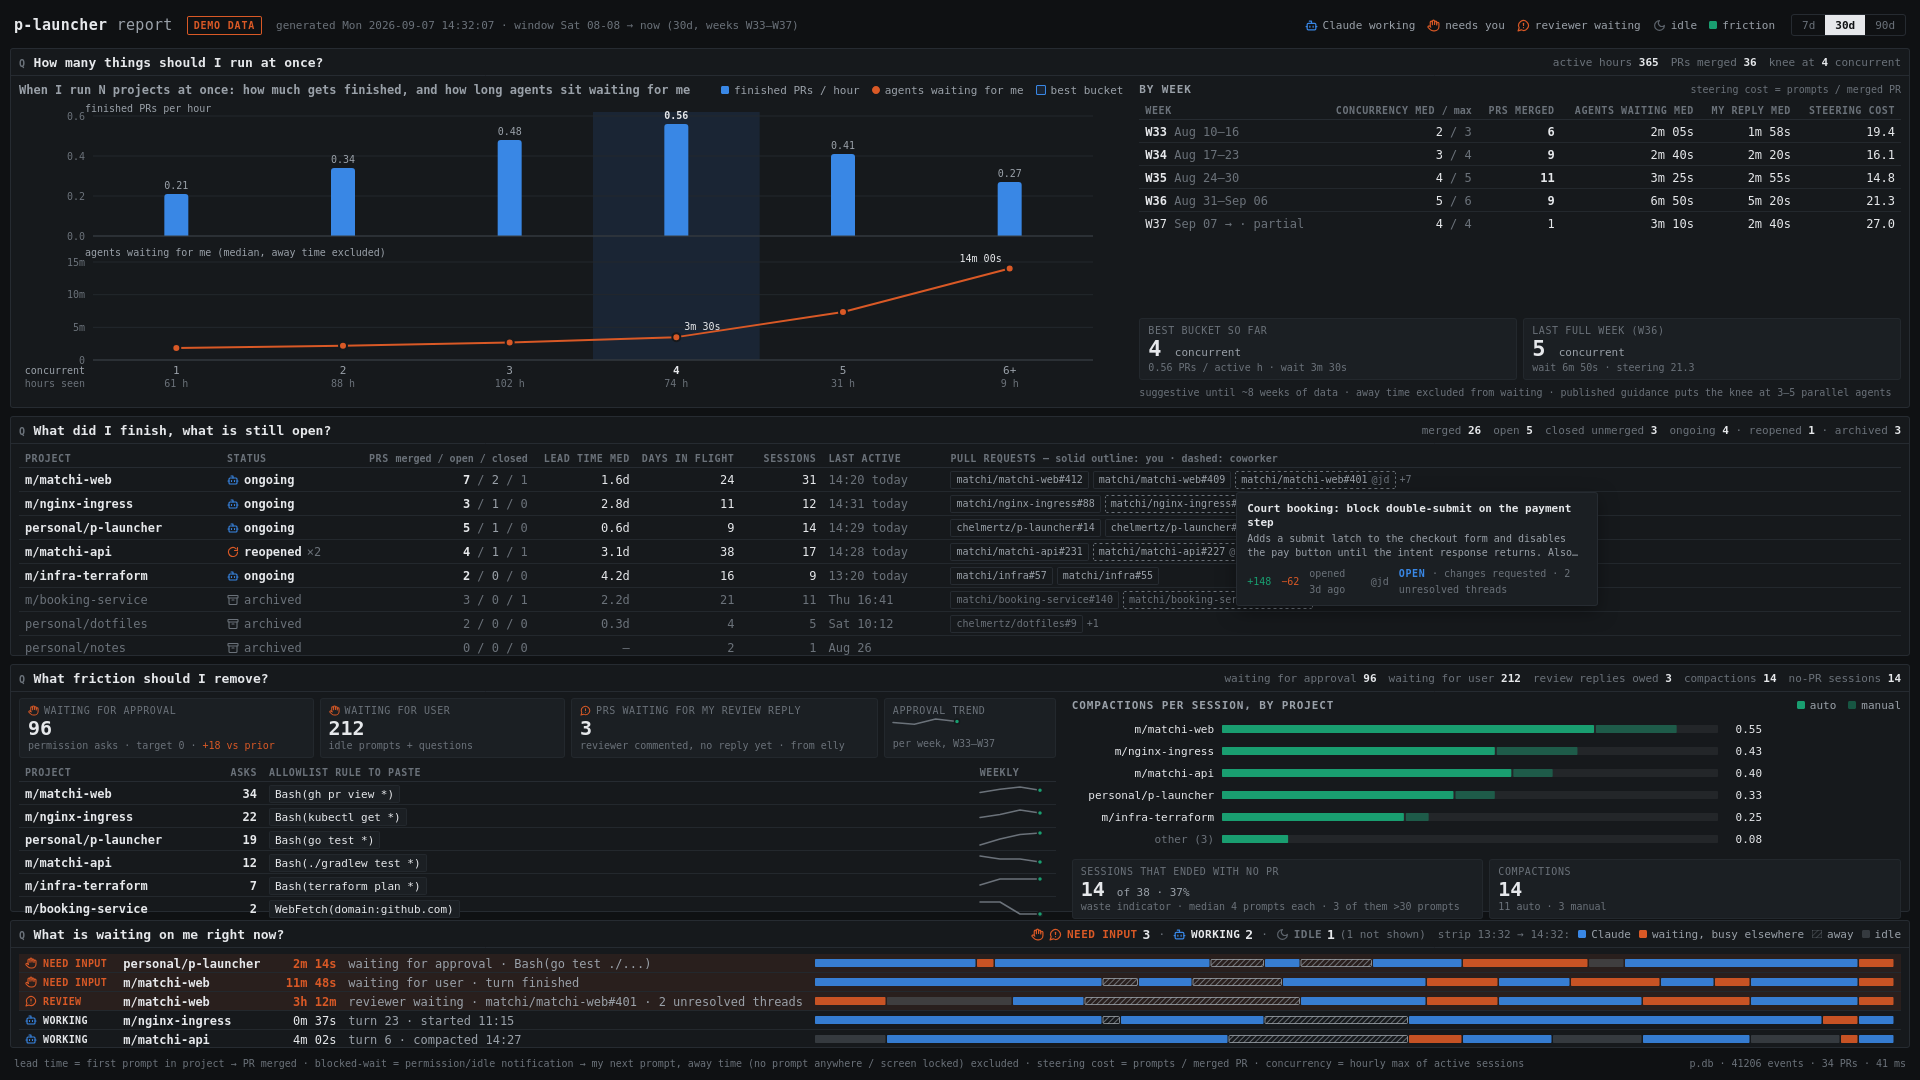
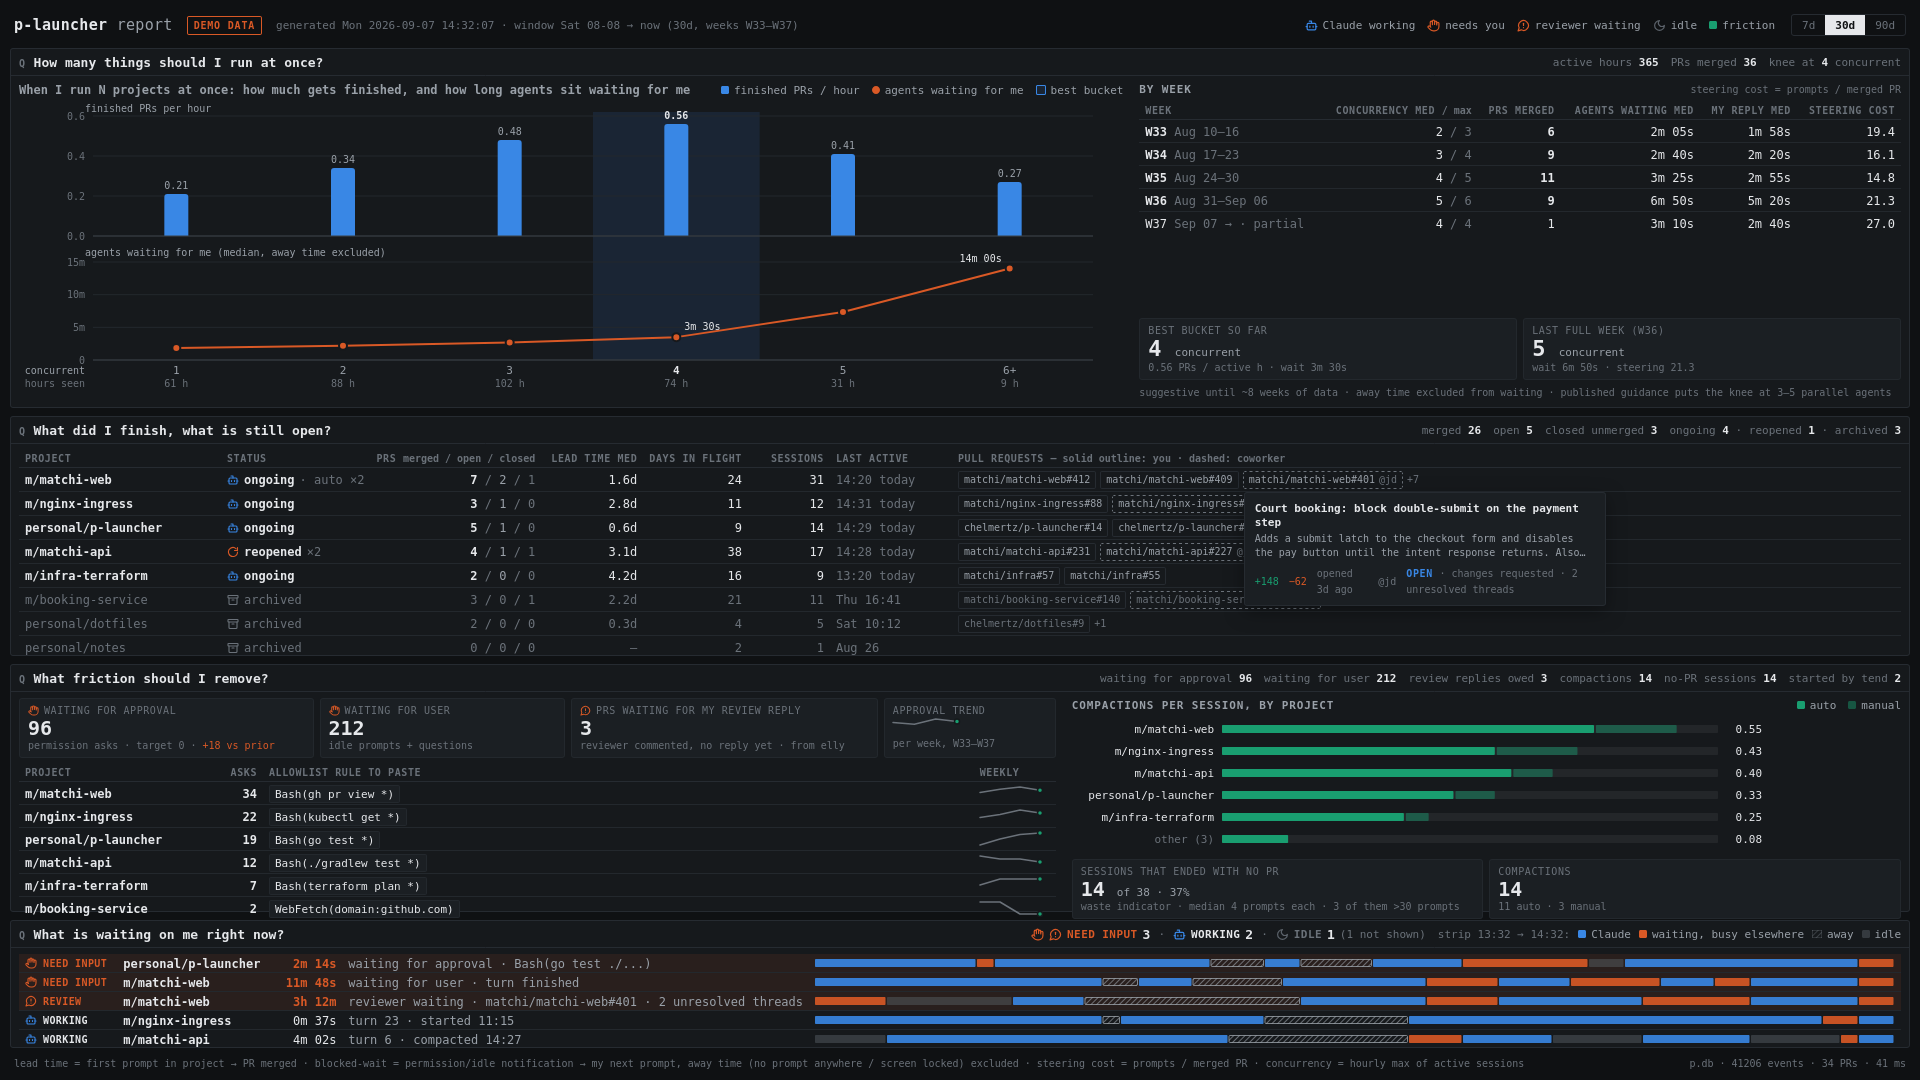
p-launcher: report shows automatic tend rounds; goldens follow the theme

diff --git a/p-launcher/report_demo.go b/p-launcher/report_demo.go
@@ -47,7 +47,7 @@ func demoReport(now time.Time, T Theme) Report {
 	web409 := chip("matchi/matchi-web#409", true, "")
 	web409.Title, web409.Desc, web409.Add, web409.Del, web409.OpenedAgo, web409.State = "Fix stale availability cache after cancellations", "Invalidate the slot cache on booking.cancelled events instead of on the 5-minute timer.", 41, 9, "4d ago", "merged"
 	r.Projects = []ProjectRow{
-		{Path: "m/matchi-web", Status: "ongoing", Merged: 7, Open: 2, Closed: 1, LeadDays: 1.6, FlightDays: 24, Sessions: 31, LastActive: "14:20 today", PRs: []PRChip{web412, web409, web401}, More: 7},
+		{Path: "m/matchi-web", Status: "ongoing", Merged: 7, Open: 2, Closed: 1, LeadDays: 1.6, FlightDays: 24, Sessions: 31, AutoRounds: 2, LastActive: "14:20 today", PRs: []PRChip{web412, web409, web401}, More: 7},
 		{Path: "m/nginx-ingress", Status: "ongoing", Merged: 3, Open: 1, Closed: 0, LeadDays: 2.8, FlightDays: 11, Sessions: 12, LastActive: "14:31 today", PRs: []PRChip{chip("matchi/nginx-ingress#88", true, ""), chip("matchi/nginx-ingress#86", false, "ak")}, More: 2},
 		{Path: "personal/p-launcher", Status: "ongoing", Merged: 5, Open: 1, Closed: 0, LeadDays: 0.6, FlightDays: 9, Sessions: 14, LastActive: "14:29 today", PRs: []PRChip{chip("chelmertz/p-launcher#14", true, ""), chip("chelmertz/p-launcher#12", true, ""), chip("chelmertz/p-launcher#11", true, "")}, More: 3},
 		{Path: "m/matchi-api", Status: "reopened", Rounds: 2, Merged: 4, Open: 1, Closed: 1, LeadDays: 3.1, FlightDays: 38, Sessions: 17, LastActive: "14:28 today", PRs: []PRChip{chip("matchi/matchi-api#231", true, ""), chip("matchi/matchi-api#227", false, "jd"), chip("matchi/matchi-api#219", true, "")}, More: 3},
@@ -78,6 +78,7 @@ func demoReport(now time.Time, T Theme) Report {
 	}
 	r.CompTotal, r.CompAuto, r.CompManual = 14, 11, 3
 	r.NoPRSessions, r.SessionsTotal, r.NoPRMedianPrompts, r.NoPRBig = 14, 38, 4, 3
+	r.TendSessions = 2
 
 	live := []LiveRow{
 		{State: "you", Label: "NEED INPUT", Path: "personal/p-launcher", For: "2m 14s", Why: "waiting for approval · Bash(go test ./...)"},

diff --git a/p-launcher/report_load.go b/p-launcher/report_load.go
@@ -60,7 +60,7 @@ func loadReportDataAt(s *Store, from, now time.Time) (rawData, error) {
 
 	rows, err = s.db.Query(`
 		select p.path, l.url, l.author, l.title, l.body, coalesce(l.additions, 0), coalesce(l.deletions, 0),
-		       coalesce(l.opened_at, ''), coalesce(l.closed_at, ''), l.merged, l.action_needed, coalesce(l.refreshed_at, '')
+		       coalesce(l.opened_at, ''), coalesce(l.closed_at, ''), l.merged, l.action_needed, coalesce(l.refreshed_at, ''), l.tend_rounds
 		from link l join project p on p.id = l.project_id`)
 	if err != nil {
 		return raw, fmt.Errorf("load links: %w", err)
@@ -69,7 +69,7 @@ func loadReportDataAt(s *Store, from, now time.Time) (rawData, error) {
 		var l rawLink
 		var opened, closed, refreshed string
 		var merged, action int
-		if err := rows.Scan(&l.Project, &l.URL, &l.Author, &l.Title, &l.Body, &l.Add, &l.Del, &opened, &closed, &merged, &action, &refreshed); err != nil {
+		if err := rows.Scan(&l.Project, &l.URL, &l.Author, &l.Title, &l.Body, &l.Add, &l.Del, &opened, &closed, &merged, &action, &refreshed, &l.Rounds); err != nil {
 			rows.Close()
 			return raw, err
 		}

diff --git a/p-launcher/report_metrics.go b/p-launcher/report_metrics.go
@@ -23,6 +23,7 @@ type rawLink struct {
 	Add, Del                                  int
 	OpenedAt, ClosedAt, MergedAt, RefreshedAt time.Time // zero when unknown
 	Merged, ActionNeeded                      bool
+	Rounds                                    int // automatic tend rounds
 }
 
 type rawProjectEvent struct {
@@ -484,6 +485,7 @@ func projectRows(paths []string, evs []rawEvent, links []rawLink, pe []rawProjec
 		sort.Slice(ls, func(i, j int) bool { return ls[i].OpenedAt.After(ls[j].OpenedAt) })
 		var merged []rawLink
 		for _, l := range ls {
+			r.AutoRounds += l.Rounds
 			switch linkState(l) {
 			case "merged":
 				r.Merged++
@@ -901,6 +903,11 @@ func computeReport(raw rawData, rng string, from, now time.Time, theme Theme) Re
 		}
 		if l.ActionNeeded {
 			r.ReviewOwed++
+		}
+	}
+	for _, e := range win {
+		if e.Kind == "tend" {
+			r.TendSessions++
 		}
 	}
 	r.Projects, r.Totals = projectRows(raw.Projects, raw.Events, raw.Links, raw.PEvents, raw.Me, now)

diff --git a/p-launcher/report_render_test.go b/p-launcher/report_render_test.go
@@ -18,7 +18,7 @@ func TestRenderDemo(t *testing.T) {
 		"<!doctype html>", "How many things should I run at once?", "What did I finish, what is still open?",
 		"What friction should I remove?", "What is waiting on me right now?", "demo data", "Bash(gh pr view *)",
 		`class="chip other demo"`, "away time", `href="https://github.com/matchi/matchi-web/pull/401"`,
-		"Court booking: block double-submit", "reviewer waiting · matchi/matchi-web#401", "(1 not shown)",
+		"Court booking: block double-submit", "reviewer waiting · matchi/matchi-web#401", "(1 not shown)", "auto ×2", "started by tend <b>2</b>",
 		`href="report-7d.html"`, `class="rng on" href="report-30d.html"`, "#0f1113",
 	} {
 		if !strings.Contains(s, want) {

diff --git a/p-launcher/report_types.go b/p-launcher/report_types.go
@@ -33,6 +33,7 @@ type Report struct {
 	CompTotal, CompAuto, CompManual  int
 	NoPRSessions, SessionsTotal      int
 	NoPRMedianPrompts, NoPRBig       int
+	TendSessions                     int // sessions started by tend in range
 
 	// S4: what is waiting on me right now?
 	Live                     []LiveRow
@@ -73,6 +74,7 @@ type ProjectRow struct {
 	LeadDays             float64 // NaN when nothing merged
 	FlightDays           int
 	Sessions             int
+	AutoRounds           int // automatic tend sessions across the project's links
 	LastActive           string
 	PRs                  []PRChip
 	More                 int
